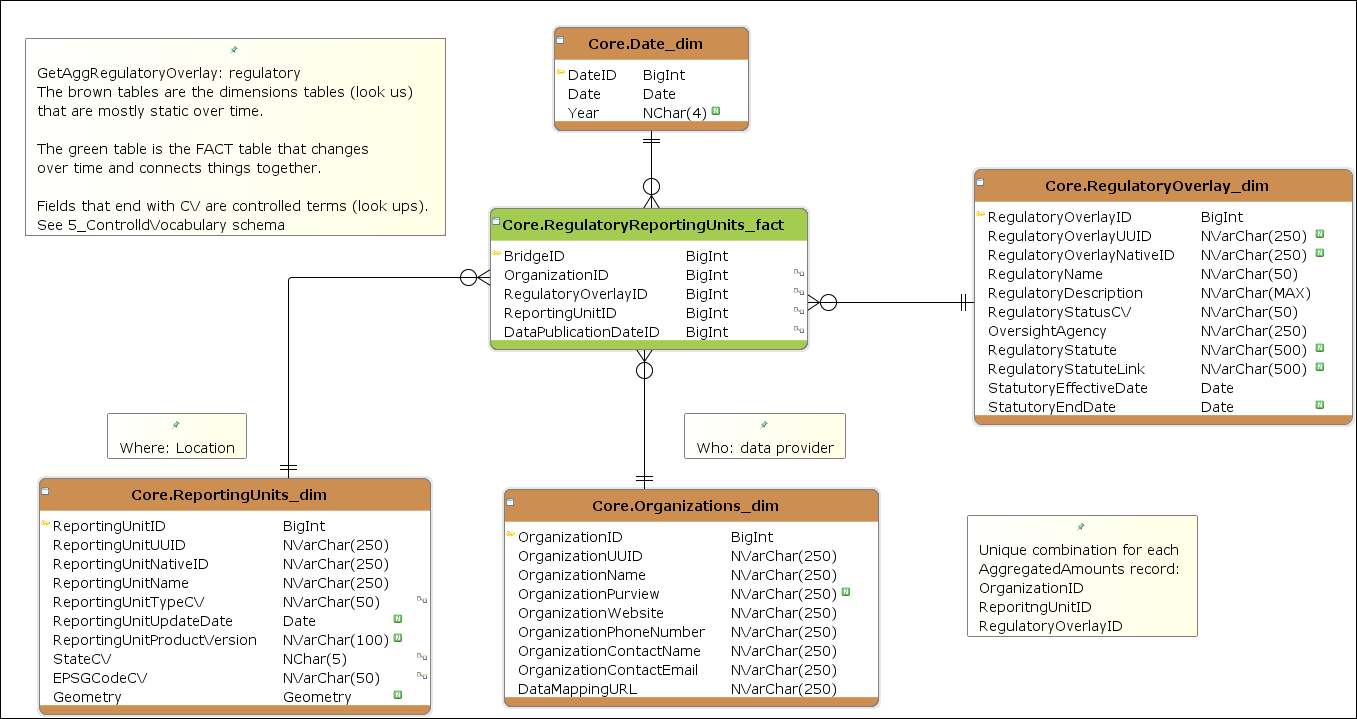
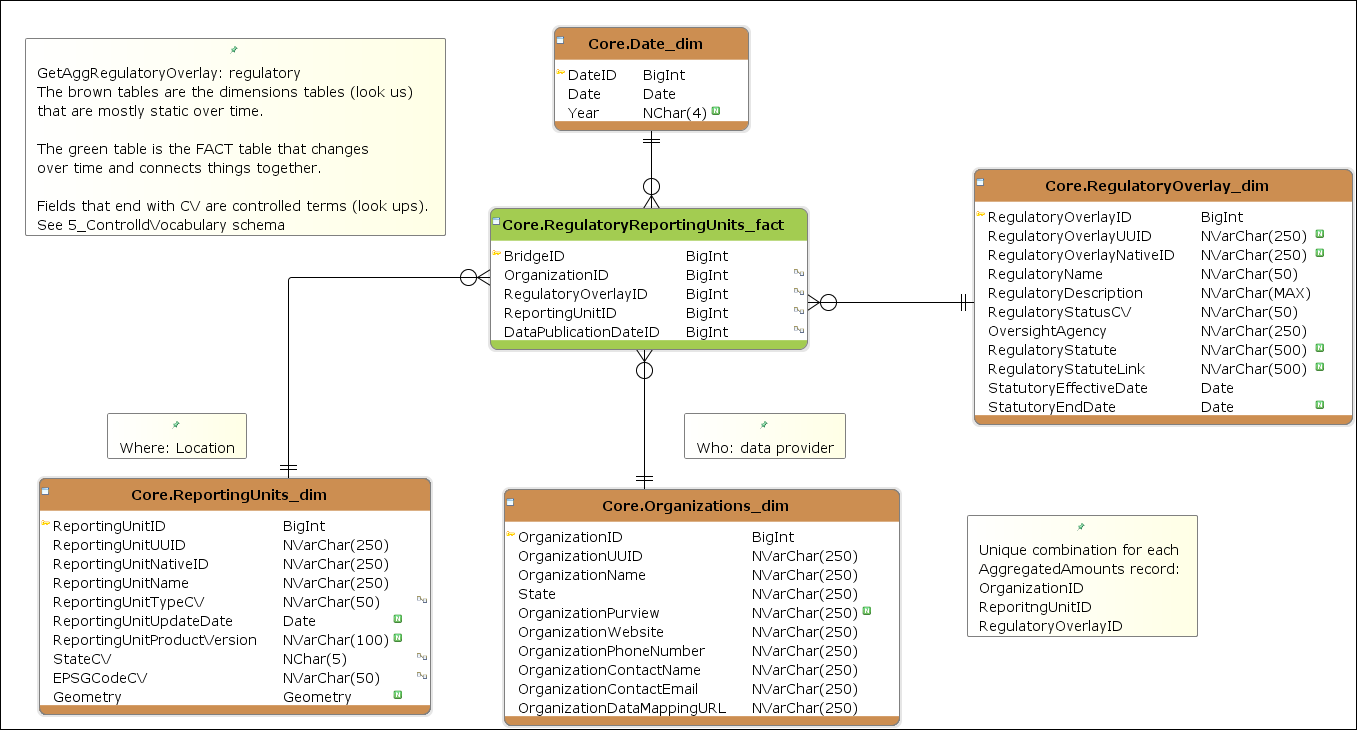
minor updates

diff --git a/docs/tables/Core_Organizations_dim.html b/docs/tables/Core_Organizations_dim.html
@@ -36,28 +36,31 @@
 <td> </td><td><a href="../columns/Core_Organizations_dim_OrganizationName.html">OrganizationName</a></td><td>NVarChar(250)</td><td> </td><td> </td><td> </td><td>Name corresponding to unique organization ID (i.e. Utah Division of Water Resources)	</td><td> </td>
 </tr>
 <tr class="altRow">
+<td> </td><td><a href="../columns/Core_Organizations_dim_State.html">State</a></td><td>NVarChar(250)</td><td> </td><td> </td><td> </td><td>State name where the organization belongs to</td><td> </td>
+</tr>
+<tr>
 <td> </td><td><a href="../columns/Core_Organizations_dim_OrganizationPurview.html">OrganizationPurview</a></td><td>NVarChar(250)</td><td>
 <p class="boolImg">
 <img src="../images/ok12d.gif"></p>
 </td><td> </td><td> </td><td>A description of the purview of the agency (i.e. water rights, consumptive use, etc.) </td><td> </td>
 </tr>
-<tr>
+<tr class="altRow">
 <td> </td><td><a href="../columns/Core_Organizations_dim_OrganizationWebsite.html">OrganizationWebsite</a></td><td>NVarChar(250)</td><td> </td><td> </td><td> </td><td>A hyperlink back to the organization's website. Include https:// header and trailing forward slash
 </td><td> </td>
 </tr>
-<tr class="altRow">
+<tr>
 <td> </td><td><a href="../columns/Core_Organizations_dim_OrganizationPhoneNumber.html">OrganizationPhoneNumber</a></td><td>NVarChar(250)</td><td> </td><td> </td><td> </td><td>The organization's phone number for general information. Include area code and hyphens	</td><td> </td>
 </tr>
-<tr>
+<tr class="altRow">
 <td> </td><td><a href="../columns/Core_Organizations_dim_OrganizationContactName.html">OrganizationContactName</a></td><td>NVarChar(250)</td><td> </td><td> </td><td> </td><td>First name of a person.
 </td><td> </td>
 </tr>
-<tr class="altRow">
+<tr>
 <td> </td><td><a href="../columns/Core_Organizations_dim_OrganizationContactEmail.html">OrganizationContactEmail</a></td><td>NVarChar(250)</td><td> </td><td> </td><td> </td><td>Title of the contact person.
 </td><td> </td>
 </tr>
-<tr>
-<td> </td><td><a href="../columns/Core_Organizations_dim_DataMappingURL.html">DataMappingURL</a></td><td>NVarChar(250)</td><td> </td><td> </td><td> </td><td>A URL to WaDE GitHb repository page that describes the original data source and the conceptual mapping logic to map it into WaDE schema </td><td> </td>
+<tr class="altRow">
+<td> </td><td><a href="../columns/Core_Organizations_dim_OrganizationDataMappingURL.html">OrganizationDataMappingURL</a></td><td>NVarChar(250)</td><td> </td><td> </td><td> </td><td>A URL to WaDE GitHb repository page that describes the original data source and the conceptual mapping logic to map it into WaDE schema </td><td> </td>
 </tr>
 </table>
 <br>

diff --git a/docs/tables/Input_Organizations_dim.html b/docs/tables/Input_Organizations_dim.html
@@ -30,27 +30,30 @@
 <td> </td><td><a href="../columns/Input_Organizations_dim_OrganizationName.html">OrganizationName</a></td><td>NVarChar(250)</td><td> </td><td> </td><td> </td><td>Name corresponding to unique organization ID (i.e. Utah Division of Water Resources)	</td><td> </td>
 </tr>
 <tr>
+<td> </td><td><a href="../columns/Input_Organizations_dim_State.html">State</a></td><td>NVarChar(250)</td><td> </td><td> </td><td> </td><td>State name where the organization belongs to</td><td> </td>
+</tr>
+<tr class="altRow">
 <td> </td><td><a href="../columns/Input_Organizations_dim_OrganizationPurview.html">OrganizationPurview</a></td><td>NVarChar(250)</td><td>
 <p class="boolImg">
 <img src="../images/ok12d.gif"></p>
 </td><td> </td><td> </td><td>A description of the purview of the agency (i.e. water rights, consumptive use, etc.) </td><td> </td>
 </tr>
-<tr class="altRow">
+<tr>
 <td> </td><td><a href="../columns/Input_Organizations_dim_OrganizationWebsite.html">OrganizationWebsite</a></td><td>NVarChar(250)</td><td> </td><td> </td><td> </td><td>A hyperlink back to the organization's website. Include https:// header and trailing forward slash
 </td><td> </td>
 </tr>
-<tr>
+<tr class="altRow">
 <td> </td><td><a href="../columns/Input_Organizations_dim_OrganizationPhoneNumber.html">OrganizationPhoneNumber</a></td><td>NVarChar(250)</td><td> </td><td> </td><td> </td><td>The organization's phone number for general information. Include area code and hyphens	</td><td> </td>
 </tr>
-<tr class="altRow">
+<tr>
 <td> </td><td><a href="../columns/Input_Organizations_dim_OrganizationContactName.html">OrganizationContactName</a></td><td>NVarChar(250)</td><td> </td><td> </td><td> </td><td>First name of a person.
 </td><td> </td>
 </tr>
-<tr>
+<tr class="altRow">
 <td> </td><td><a href="../columns/Input_Organizations_dim_OrganizationContactEmail.html">OrganizationContactEmail</a></td><td>NVarChar(250)</td><td> </td><td> </td><td> </td><td>Title of the contact person.
 </td><td> </td>
 </tr>
-<tr class="altRow">
+<tr>
 <td> </td><td><a href="../columns/Input_Organizations_dim_DataMappingURL.html">DataMappingURL</a></td><td>NVarChar(250)</td><td>
 <p class="boolImg">
 <img src="../images/ok12d.gif"></p>

diff --git a/docs/columns/Core_Organizations_dim_State.html b/docs/columns/Core_Organizations_dim_State.html
@@ -1,0 +1,42 @@
+<HTML>
+<header>
+<title>State - Column</title>
+<meta content="text/html; charset=UTF-8" http-equiv="Content-Type">
+<link href="../css/style.css" rel="stylesheet" type="text/css">
+</header>
+<body>
+<div class="logo">
+<p>WaDE [WaDE2.0_schema_star.xml]</p>
+</div>
+<div class="horzMenu">
+<a class="horzMenu" href="../index.html"> Home</a><a class="horzMenu" href="../tables/index.html">Tables</a><a class="horzMenu" href="../schemas/index.html">Schemas</a><a class="horzMenu" href="../diagrams/index.html">Diagrams</a><a class="horzMenu" href="../foreignKeys/index.html">Foreign Keys</a><a class="horzMenu" href="../indexes/index.html">Indexes</a>
+</div>
+<h1>Column: State</h1>
+<table class="flat">
+<tr>
+<td class="key">Name</td><td class="value">State</td>
+</tr>
+<tr>
+<td class="key">Comment</td><td class="value">State name where the organization belongs to</td>
+</tr>
+<tr>
+<td class="key">Data Type</td><td class="value">NVarChar(250)</td>
+</tr>
+<tr>
+<td class="key">Primary Key</td><td class="value"> </td>
+</tr>
+<tr>
+<td class="key">Nulls</td><td class="value"> </td>
+</tr>
+<tr>
+<td class="key">Auto Num.</td><td class="value"> </td>
+</tr>
+<tr>
+<td class="key">Default</td><td class="value"> </td>
+</tr>
+<tr>
+<td class="key">FK</td><td class="value"> </td>
+</tr>
+</table>
+</body>
+</HTML>

diff --git a/docs/columns/Input_Organizations_dim_State.html b/docs/columns/Input_Organizations_dim_State.html
@@ -1,0 +1,42 @@
+<HTML>
+<header>
+<title>State - Column</title>
+<meta content="text/html; charset=UTF-8" http-equiv="Content-Type">
+<link href="../css/style.css" rel="stylesheet" type="text/css">
+</header>
+<body>
+<div class="logo">
+<p>WaDE [WaDE2.0_schema_star.xml]</p>
+</div>
+<div class="horzMenu">
+<a class="horzMenu" href="../index.html"> Home</a><a class="horzMenu" href="../tables/index.html">Tables</a><a class="horzMenu" href="../schemas/index.html">Schemas</a><a class="horzMenu" href="../diagrams/index.html">Diagrams</a><a class="horzMenu" href="../foreignKeys/index.html">Foreign Keys</a><a class="horzMenu" href="../indexes/index.html">Indexes</a>
+</div>
+<h1>Column: State</h1>
+<table class="flat">
+<tr>
+<td class="key">Name</td><td class="value">State</td>
+</tr>
+<tr>
+<td class="key">Comment</td><td class="value">State name where the organization belongs to</td>
+</tr>
+<tr>
+<td class="key">Data Type</td><td class="value">NVarChar(250)</td>
+</tr>
+<tr>
+<td class="key">Primary Key</td><td class="value"> </td>
+</tr>
+<tr>
+<td class="key">Nulls</td><td class="value"> </td>
+</tr>
+<tr>
+<td class="key">Auto Num.</td><td class="value"> </td>
+</tr>
+<tr>
+<td class="key">Default</td><td class="value"> </td>
+</tr>
+<tr>
+<td class="key">FK</td><td class="value"> </td>
+</tr>
+</table>
+</body>
+</HTML>

diff --git a/docs/diagrams/3_AggregatedAmounts.html b/docs/diagrams/3_AggregatedAmounts.html
@@ -14,13 +14,13 @@
 <h1>Diagram: 3_AggregatedAmounts</h1>
 <br>
 <map id="imgmap" name="imgmap">
-<area coords="49, 969, 440, 1205" href="../tables/Core_ReportingUnits_dim.html" shape="rect">
+<area coords="42, 971, 433, 1207" href="../tables/Core_ReportingUnits_dim.html" shape="rect">
 <area coords="1056, 1003, 1416, 1201" href="../tables/Core_WaterSources_dim.html" shape="rect">
 <area coords="45, 202, 424, 457" href="../tables/Core_Variables_dim.html" shape="rect">
 <area coords="572, 432, 983, 915" href="../tables/Core_AggregatedAmounts_fact.html" shape="rect">
 <area coords="1110, 560, 1304, 663" href="../tables/Core_Date_dim.html" shape="rect">
-<area coords="542, 1006, 916, 1223" href="../tables/Core_Organizations_dim.html" shape="rect">
-<area coords="39, 573, 414, 809" href="../tables/Core_Methods_dim.html" shape="rect">
+<area coords="542, 1006, 937, 1242" href="../tables/Core_Organizations_dim.html" shape="rect">
+<area coords="41, 574, 416, 810" href="../tables/Core_Methods_dim.html" shape="rect">
 <area coords="850, 63, 1211, 223" href="../tables/Core_BeneficialUses_dim.html" shape="rect">
 <area coords="554, 257, 872, 360" href="../tables/Core_AggBridge_BeneficialUses_fact.html" shape="rect">
 </map>

diff --git a/docs/columns/Core_Organizations_dim_OrganizationDataMappingURL.html b/docs/columns/Core_Organizations_dim_OrganizationDataMappingURL.html
@@ -1,6 +1,6 @@
 <HTML>
 <header>
-<title>DataMappingURL - Column</title>
+<title>OrganizationDataMappingURL - Column</title>
 <meta content="text/html; charset=UTF-8" http-equiv="Content-Type">
 <link href="../css/style.css" rel="stylesheet" type="text/css">
 </header>
@@ -11,10 +11,10 @@
 <div class="horzMenu">
 <a class="horzMenu" href="../index.html"> Home</a><a class="horzMenu" href="../tables/index.html">Tables</a><a class="horzMenu" href="../schemas/index.html">Schemas</a><a class="horzMenu" href="../diagrams/index.html">Diagrams</a><a class="horzMenu" href="../foreignKeys/index.html">Foreign Keys</a><a class="horzMenu" href="../indexes/index.html">Indexes</a>
 </div>
-<h1>Column: DataMappingURL</h1>
+<h1>Column: OrganizationDataMappingURL</h1>
 <table class="flat">
 <tr>
-<td class="key">Name</td><td class="value">DataMappingURL</td>
+<td class="key">Name</td><td class="value">OrganizationDataMappingURL</td>
 </tr>
 <tr>
 <td class="key">Comment</td><td class="value">A URL to WaDE GitHb repository page that describes the original data source and the conceptual mapping logic to map it into WaDE schema </td>

diff --git a/docs/columns/Core_AllocationAmounts_fact_AllocationSDWISIdentifierCV.html b/docs/columns/Core_AllocationAmounts_fact_AllocationSDWISIdentifierCV.html
@@ -1,6 +1,6 @@
 <HTML>
 <header>
-<title>AllocationSDWISIdentifier - Column</title>
+<title>AllocationSDWISIdentifierCV - Column</title>
 <meta content="text/html; charset=UTF-8" http-equiv="Content-Type">
 <link href="../css/style.css" rel="stylesheet" type="text/css">
 </header>
@@ -11,10 +11,10 @@
 <div class="horzMenu">
 <a class="horzMenu" href="../index.html"> Home</a><a class="horzMenu" href="../tables/index.html">Tables</a><a class="horzMenu" href="../schemas/index.html">Schemas</a><a class="horzMenu" href="../diagrams/index.html">Diagrams</a><a class="horzMenu" href="../foreignKeys/index.html">Foreign Keys</a><a class="horzMenu" href="../indexes/index.html">Indexes</a>
 </div>
-<h1>Column: AllocationSDWISIdentifier</h1>
+<h1>Column: AllocationSDWISIdentifierCV</h1>
 <table class="flat">
 <tr>
-<td class="key">Name</td><td class="value">AllocationSDWISIdentifier</td>
+<td class="key">Name</td><td class="value">AllocationSDWISIdentifierCV</td>
 </tr>
 <tr>
 <td class="key">Comment</td><td class="value">If the use is municipal, the data provider can add the SDWIS identifier for the CWS</td>

diff --git a/docs/diagrams/2_SiteSpecificAmounts.html b/docs/diagrams/2_SiteSpecificAmounts.html
@@ -19,10 +19,10 @@
 <area coords="34, 157, 413, 412" href="../tables/Core_Variables_dim.html" shape="rect">
 <area coords="809, 139, 1170, 299" href="../tables/Core_BeneficialUses_dim.html" shape="rect">
 <area coords="508, 322, 832, 425" href="../tables/Core_SitesBridge_BeneficialUses_fact.html" shape="rect">
-<area coords="41, 860, 384, 1305" href="../tables/Core_Sites_dim.html" shape="rect">
+<area coords="45, 854, 388, 1299" href="../tables/Core_Sites_dim.html" shape="rect">
 <area coords="520, 497, 931, 980" href="../tables/Core_SiteVariableAmounts_fact.html" shape="rect">
 <area coords="1058, 655, 1252, 758" href="../tables/Core_Date_dim.html" shape="rect">
-<area coords="523, 1068, 897, 1285" href="../tables/Core_Organizations_dim.html" shape="rect">
+<area coords="523, 1068, 918, 1304" href="../tables/Core_Organizations_dim.html" shape="rect">
 </map>
 <img src="2_SiteSpecificAmounts.png" usemap="#imgmap"></body>
 </HTML>

diff --git a/docs/diagrams/index.html b/docs/diagrams/index.html
@@ -36,7 +36,7 @@
 <td class="header"><a href="../diagrams/3_AggregatedAmounts.html">3_AggregatedAmounts</a></td>
 </tr>
 <tr>
-<td class="diagramThumb"><a href="../diagrams/3_AggregatedAmounts.html"><img height="431" src="../diagrams/3_AggregatedAmounts.png" width="500"></a></td>
+<td class="diagramThumb"><a href="../diagrams/3_AggregatedAmounts.html"><img height="438" src="../diagrams/3_AggregatedAmounts.png" width="500"></a></td>
 </tr>
 </table>
 <br>
@@ -45,7 +45,7 @@
 <td class="header"><a href="../diagrams/4_RegulatoryInfo.html">4_RegulatoryInfo</a></td>
 </tr>
 <tr>
-<td class="diagramThumb"><a href="../diagrams/4_RegulatoryInfo.html"><img height="264" src="../diagrams/4_RegulatoryInfo.png" width="500"></a></td>
+<td class="diagramThumb"><a href="../diagrams/4_RegulatoryInfo.html"><img height="268" src="../diagrams/4_RegulatoryInfo.png" width="500"></a></td>
 </tr>
 </table>
 <br>

diff --git a/docs/diagrams/6_InputTables.html b/docs/diagrams/6_InputTables.html
@@ -20,7 +20,7 @@
 <area coords="1121, 577, 1464, 699" href="../tables/Input_RegulatoryReportingUnits_fact.html" shape="rect">
 <area coords="18, 905, 361, 1274" href="../tables/Input_Sites_dim.html" shape="rect">
 <area coords="766, 714, 1145, 931" href="../tables/Input_Variables_dim.html" shape="rect">
-<area coords="760, 985, 1134, 1183" href="../tables/Input_Organizations_dim.html" shape="rect">
+<area coords="762, 985, 1136, 1202" href="../tables/Input_Organizations_dim.html" shape="rect">
 <area coords="372, 987, 747, 1204" href="../tables/Input_Methods_dim.html" shape="rect">
 <area coords="396, 719, 757, 841" href="../tables/Input_BeneficialUses_dim.html" shape="rect">
 <area coords="1164, 717, 1542, 934" href="../tables/Input_RegulatoryOverlay_dim.html" shape="rect">

diff --git a/docs/diagrams/1_WaterAllocations.html b/docs/diagrams/1_WaterAllocations.html
@@ -18,7 +18,7 @@
 <area coords="1121, 731, 1315, 834" href="../tables/Core_Date_dim.html" shape="rect">
 <area coords="979, 1255, 1339, 1453" href="../tables/Core_WaterSources_dim.html" shape="rect">
 <area coords="23, 225, 402, 480" href="../tables/Core_Variables_dim.html" shape="rect">
-<area coords="510, 1241, 884, 1458" href="../tables/Core_Organizations_dim.html" shape="rect">
+<area coords="510, 1241, 905, 1477" href="../tables/Core_Organizations_dim.html" shape="rect">
 <area coords="516, 502, 1015, 1175" href="../tables/Core_AllocationAmounts_fact.html" shape="rect">
 <area coords="550, 328, 913, 431" href="../tables/Core_AllocationBridge_BeneficialUses_fact.html" shape="rect">
 <area coords="47, 1065, 390, 1510" href="../tables/Core_Sites_dim.html" shape="rect">

diff --git a/docs/diagrams/4_RegulatoryInfo.html b/docs/diagrams/4_RegulatoryInfo.html
@@ -17,7 +17,7 @@
 <area coords="974, 169, 1352, 424" href="../tables/Core_RegulatoryOverlay_dim.html" shape="rect">
 <area coords="39, 478, 430, 714" href="../tables/Core_ReportingUnits_dim.html" shape="rect">
 <area coords="490, 208, 807, 349" href="../tables/Core_RegulatoryReportingUnits_fact.html" shape="rect">
-<area coords="504, 489, 878, 706" href="../tables/Core_Organizations_dim.html" shape="rect">
+<area coords="504, 489, 899, 725" href="../tables/Core_Organizations_dim.html" shape="rect">
 <area coords="554, 27, 748, 130" href="../tables/Core_Date_dim.html" shape="rect">
 </map>
 <img src="4_RegulatoryInfo.png" usemap="#imgmap"></body>
